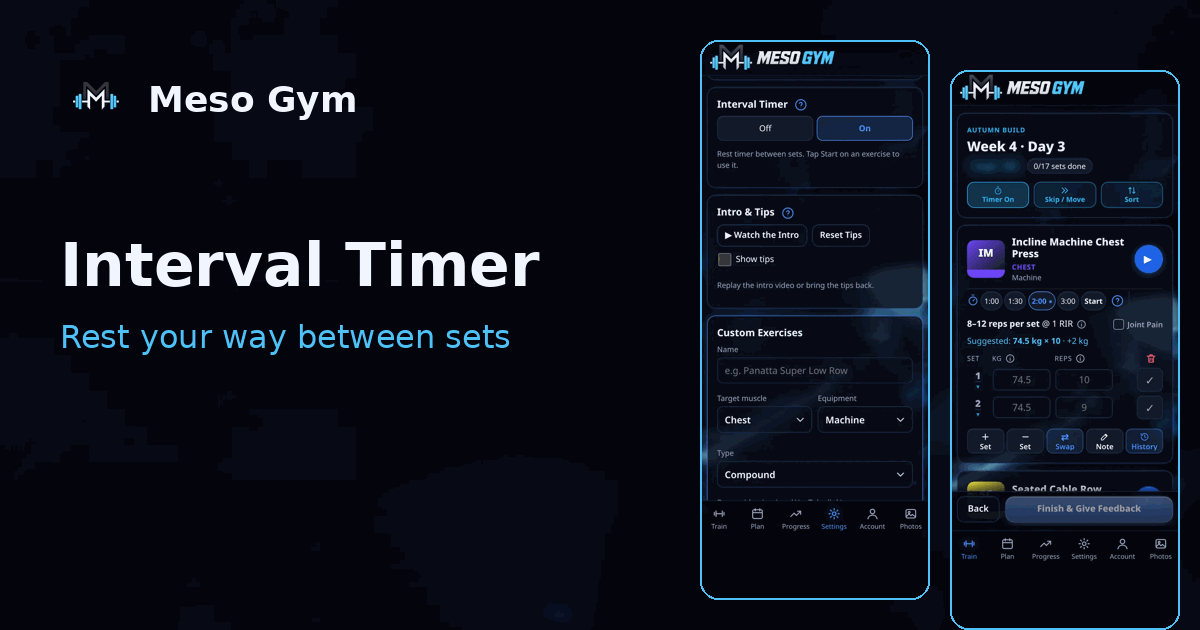
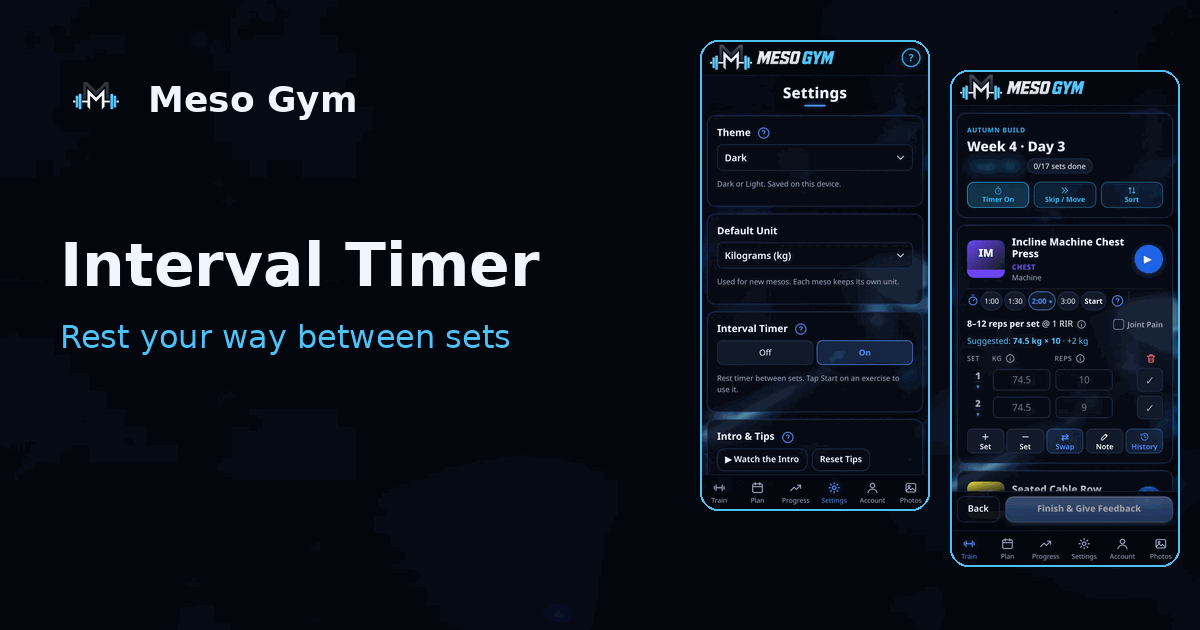
Match the live in-app Help menu: ? at top of every screen opens How To Use guide, All Features and Feedback

diff --git a/learn-as-you-go.html b/learn-as-you-go.html
@@ -4,23 +4,23 @@
 <meta charset="utf-8">
 <meta name="viewport" content="width=device-width, initial-scale=1">
 <title>Learn As You Go: Intro, Tips and Feature Guide | Meso Gym</title>
-<meta name="description" content="A short intro video, in-the-moment tips and a How To Use Meso Gym guide explain the Meso Gym hypertrophy training app step by step, so you learn as you train.">
+<meta name="description" content="Learn Meso Gym as you train: a short intro video, in-the-moment tips, and a step-by-step How To Use guide from the ? at the top of every screen.">
 <link rel="canonical" href="https://mesogym.com/learn-as-you-go.html">
 <meta property="og:type" content="website">
 <meta property="og:site_name" content="Meso Gym">
 <meta property="og:locale" content="en_GB">
 <meta property="og:title" content="Learn As You Go: Intro, Tips and Feature Guide | Meso Gym">
-<meta property="og:description" content="A short intro video, in-the-moment tips and a How To Use Meso Gym guide explain the Meso Gym hypertrophy training app step by step, so you learn as you train.">
+<meta property="og:description" content="Learn Meso Gym as you train: a short intro video, in-the-moment tips, and a step-by-step How To Use guide from the ? at the top of every screen.">
 <meta property="og:url" content="https://mesogym.com/learn-as-you-go.html">
 <meta property="og:image" content="https://mesogym.com/assets/og/learn-as-you-go.png">
 <meta property="og:image:width" content="1200">
 <meta property="og:image:height" content="630">
-<meta property="og:image:alt" content="Meso Gym Settings with How To Use Meso Gym, next to the Train screen in the Light theme">
+<meta property="og:image:alt" content="Meso Gym Help menu with How To Use Meso Gym, All Features and Feedback, next to the Train screen in the Light theme">
 <meta name="twitter:card" content="summary_large_image">
 <meta name="twitter:title" content="Learn As You Go: Intro, Tips and Feature Guide | Meso Gym">
-<meta name="twitter:description" content="A short intro video, in-the-moment tips and a How To Use Meso Gym guide explain the Meso Gym hypertrophy training app step by step, so you learn as you train.">
+<meta name="twitter:description" content="Learn Meso Gym as you train: a short intro video, in-the-moment tips, and a step-by-step How To Use guide from the ? at the top of every screen.">
 <meta name="twitter:image" content="https://mesogym.com/assets/og/learn-as-you-go.png">
-<meta name="twitter:image:alt" content="Meso Gym Settings with How To Use Meso Gym, next to the Train screen in the Light theme">
+<meta name="twitter:image:alt" content="Meso Gym Help menu with How To Use Meso Gym, All Features and Feedback, next to the Train screen in the Light theme">
 
 <script type="application/ld+json">{"@context":"https://schema.org","@type":"BreadcrumbList","itemListElement":[{"@type":"ListItem","position":1,"name":"Home","item":"https://mesogym.com/"},{"@type":"ListItem","position":2,"name":"Learn As You Go","item":"https://mesogym.com/learn-as-you-go.html"}]}</script>
 <meta name="theme-color" content="#05070d">
@@ -83,10 +83,10 @@
   </nav>
 </header>
 <main id="main" class="wrap">
-<section class="page-head"><h1>Learn As You Go</h1><p class="lead">A short intro video and in-the-moment tips get you started, and How To Use Meso Gym in Settings explains every feature. Your training is saved on your phone and, when you sign in, syncs to your Meso Gym account and the web app. It still works offline, and backup export is in Settings.</p></section>
+<section class="page-head"><h1>Learn As You Go</h1><p class="lead">A short intro video and in-the-moment tips get you started, and the <strong>?</strong> at the top right of every screen opens a menu with How To Use Meso Gym, the built-in step-by-step guide, plus All Features and Feedback. Your training is saved on your phone and, when you sign in, syncs to your Meso Gym account and the web app. It still works offline, and backup export is in Settings.</p></section>
 <div class="shots">
-  <figure><img width="390" height="844" src="assets/screens/meso-gym-settings-how-to-use.webp" alt="Meso Gym Settings screen with How To Use Meso Gym, which opens every feature explained on mesogym.com, plus Feedback and Theme" loading="lazy" decoding="async"><figcaption>How To Use Meso Gym in Settings explains every feature.</figcaption></figure>
-  <figure><img width="390" height="844" src="assets/screens/meso-gym-settings-interval-timer.webp" alt="Meso Gym Settings screen with Interval Timer and Intro and Tips options to watch the intro again, reset tips or show tips" loading="lazy" decoding="async"><figcaption>Replay the intro or bring the tips back any time.</figcaption></figure>
+  <figure><img width="390" height="800" src="assets/screens/meso-gym-help-menu.webp?v=4" alt="Meso Gym Help menu open from the ? at the top right of the workout screen, with How To Use Meso Gym, All Features and Feedback" loading="lazy" decoding="async"><figcaption>Tap the <strong>?</strong> at the top of any screen for the step-by-step guide, All Features and Feedback.</figcaption></figure>
+  <figure><img width="390" height="800" src="assets/screens/meso-gym-settings-screen.webp?v=4" alt="Meso Gym Settings screen with Theme, Default Unit, Interval Timer and Intro and Tips, with Watch the Intro and Reset Tips buttons" loading="lazy" decoding="async"><figcaption>Replay the intro or bring the tips back in Settings.</figcaption></figure>
   <figure><img width="390" height="844" src="assets/screens/meso-gym-light-theme.webp" alt="Meso Gym Train screen in the Light theme, showing the Autumn Build mesocycle" loading="lazy" decoding="async"><figcaption><strong>Pick Your Theme:</strong> change the app's look.</figcaption></figure>
 </div>
 <p class="center"><a class="btn" href="training-guide.html">Read The Training Guide →</a></p>

diff --git a/interval-timer.html b/interval-timer.html
@@ -15,12 +15,12 @@
 <meta property="og:image" content="https://mesogym.com/assets/og/interval-timer.png">
 <meta property="og:image:width" content="1200">
 <meta property="og:image:height" content="630">
-<meta property="og:image:alt" content="Meso Gym Settings with the interval timer on, next to the workout screen rest picker">
+<meta property="og:image:alt" content="Meso Gym Settings with the Interval Timer on, next to the workout screen rest picker">
 <meta name="twitter:card" content="summary_large_image">
 <meta name="twitter:title" content="Interval Timer for Lifting: Rest Between Sets | Meso Gym">
 <meta name="twitter:description" content="An interval timer for lifting: pick 1:00, 1:30, 2:00 or 3:00 rest per exercise. It starts when you press Start, adjusts by 15 seconds and runs when locked.">
 <meta name="twitter:image" content="https://mesogym.com/assets/og/interval-timer.png">
-<meta name="twitter:image:alt" content="Meso Gym Settings with the interval timer on, next to the workout screen rest picker">
+<meta name="twitter:image:alt" content="Meso Gym Settings with the Interval Timer on, next to the workout screen rest picker">
 
 <script type="application/ld+json">{"@context":"https://schema.org","@type":"BreadcrumbList","itemListElement":[{"@type":"ListItem","position":1,"name":"Home","item":"https://mesogym.com/"},{"@type":"ListItem","position":2,"name":"Interval Timer","item":"https://mesogym.com/interval-timer.html"}]}</script>
 <meta name="theme-color" content="#05070d">
@@ -87,7 +87,7 @@
 <div class="shots">
   <figure><img width="390" height="405" src="assets/screens/meso-gym-rest-interval-picker.webp" alt="Meso Gym workout screen with Timer On at the top and the rest interval picker under Incline Machine Chest Press showing 1:00, 1:30, 2:00 selected, 3:00 and a Start button" loading="lazy" decoding="async"><figcaption>Interval Timer On. Pick 1:00, 1:30, 2:00 or 3:00 for each exercise.</figcaption></figure>
   <figure><img width="390" height="400" src="assets/screens/meso-gym-rest-timer-countdown.webp" alt="Meso Gym rest timer counting down from 1:56 with minus 15 seconds, plus 15 seconds and Skip buttons" loading="lazy" decoding="async"><figcaption>Rest counts down after you press Start. Adjust or skip it.</figcaption></figure>
-  <figure><img width="390" height="844" src="assets/screens/meso-gym-settings-interval-timer.webp" alt="Meso Gym Settings screen with the Interval Timer turned On, plus Intro and Tips options" loading="lazy" decoding="async"><figcaption>Turn the interval timer on or off in Settings.</figcaption></figure>
+  <figure><img width="390" height="800" src="assets/screens/meso-gym-settings-screen.webp?v=4" alt="Meso Gym Settings screen with the Interval Timer turned On, below Theme and Default Unit" loading="lazy" decoding="async"><figcaption>Turn the interval timer on or off in Settings.</figcaption></figure>
 </div>
 
 <p class="next"><a class="btn" href="demo-videos.html">Next: Demo Videos →</a></p>

diff --git a/support.html b/support.html
@@ -87,13 +87,13 @@
 <p class="muted">Help for the Meso Gym apps (Android, iPhone) and the web app.</p>
 
   <h2>Contact Us</h2>
-  <p>Use our <a href="contact.html?subject=Support">contact form</a>. We usually reply within a few days. You can also use <strong>Settings → Feedback</strong> in the app to report a problem, suggest an exercise or a better demo video. Add your email there if you'd like a reply.</p>
+  <p>Use our <a href="contact.html?subject=Support">contact form</a>. We usually reply within a few days. You can also tap the <strong>?</strong> at the top of the app and choose <strong>Feedback</strong> to report a problem, suggest an exercise or a better demo video. Add your email there if you'd like a reply.</p>
 
   <h2>Common Questions</h2>
   <p><strong>Where is my data?</strong> On your phone, and in your Meso Gym account if you sign in. Signed in, your training syncs between your phone and the web app, and the app still works offline. Signed out, it stays on your phone only. Progress photos always stay on your phone. You can also export a backup: Settings → Backup → Export JSON (the app opens the share sheet so you can save the file to Files, Drive or email). Import JSON restores it.</p>
   <p><strong>Moving to a new phone?</strong> Sign in on the new phone with the same account and your training syncs across. Or export a backup on the old phone and import it on the new one. Your phone's own backup (iCloud or Google) may also restore the app's data.</p>
   <p><strong>Why can't I open a later day?</strong> Days unlock in order. Finish the next day first, or skip it or train it later in the week (Train → "Can't Train Today? Skip or Move It"); Train always shows which one is next.</p>
-  <p><strong>A demo video won't play.</strong> Videos need an internet connection. If one still won't play, tap "Open in YouTube" and tell us via Settings → Feedback so we can replace it.</p>
+  <p><strong>A demo video won't play.</strong> Videos need an internet connection. If one still won't play, tap "Open in YouTube" and tell us through Feedback in the ? menu at the top of the app so we can replace it.</p>
   <p><strong>How does Meso Gym choose my sets and weights?</strong> Volume starts near your minimum effective volume (a little above it for Advanced), with fewer sets on the most taxing exercises, like heavy barbell lifts, depending on the training experience you pick. It then changes week to week from your post-session feedback (pump, soreness, workload), lighter exercises gaining sets first, within each muscle's maximum recoverable volume. Weights go up in small steps while reps-in-reserve targets get harder, followed by a deload.</p>
   <p><strong>Can I change kg/lb?</strong> Each mesocycle has its own unit, chosen when you create it.</p>
   <p><strong>Is there a trial?</strong> Meso Gym Pro starts with a 7-day Pro trial. It starts only when you choose it in the app, and you won’t be charged if you cancel before it ends.</p>

diff --git a/index.html b/index.html
@@ -137,7 +137,7 @@
   <!-- tile -->
   <a class="tile" href="see-your-progress.html"><div class="tile-thumb"><img src="assets/screens/home-tile-see-your-progress.webp" width="780" height="620" alt="Meso Gym Power Level ring at 75 percent of the planned sets for the current mesocycle" loading="lazy" decoding="async"></div><div class="tile-text"><h3>See Your Progress</h3><p>Power Level, body map and photos.</p></div></a>
   <!-- tile -->
-  <a class="tile" href="learn-as-you-go.html"><div class="tile-thumb"><img src="assets/screens/home-tile-learn-as-you-go.webp" width="780" height="620" alt="Meso Gym Settings screen with How To Use Meso Gym and Feedback options" loading="lazy" decoding="async"></div><div class="tile-text"><h3>Learn As You Go</h3><p>Intro video, tips and a guide to every feature.</p></div></a>
+  <a class="tile" href="learn-as-you-go.html"><div class="tile-thumb"><img src="assets/screens/home-tile-learn-as-you-go-help.webp" width="780" height="620" alt="Meso Gym Help menu from the ? at the top of the app, with How To Use Meso Gym, All Features and Feedback" loading="lazy" decoding="async"></div><div class="tile-text"><h3>Learn As You Go</h3><p>Intro video, tips and a step-by-step guide.</p></div></a>
   <!-- tile -->
   <a class="tile" href="training-guide.html"><div class="tile-thumb"><img src="assets/screens/home-tile-training-guide.webp" width="780" height="620" alt="Meso Gym weeks grid showing completed sets for each training day from week 1 to week 4" loading="lazy" decoding="async"></div><div class="tile-text"><h3>Training Guide</h3><p>RIR, mesocycles and deloads explained.</p></div></a>
   <!-- tile -->

diff --git a/privacy.html b/privacy.html
@@ -128,7 +128,7 @@
   <p>Rest-timer notifications are scheduled on your device only. Meso Gym doesn't send push notifications from a server.</p>
 
   <h2>Feedback You Send</h2>
-  <p>If you use Feedback (Settings → Feedback) and tap send, the following is sent to us by email through the form-to-email service <a href="https://formsubmit.co/" rel="noopener" target="_blank">FormSubmit</a>:</p>
+  <p>If you use Feedback (the ? menu at the top of the app → Feedback) and tap send, the following is sent to us by email through the form-to-email service <a href="https://formsubmit.co/" rel="noopener" target="_blank">FormSubmit</a>:</p>
   <table>
     <tr><th>Always</th><td>The category and your message; the app version; a short device summary (for example "Android 15 · Chrome"), the browser/WebView user-agent string, the screen size, and the time.</td></tr>
     <tr><th>Only if you fill them in</th><td>Your email address (so we can reply); the exercise name and video link you suggest; a suggested exercise's name, muscle group, equipment and example video link.</td></tr>
